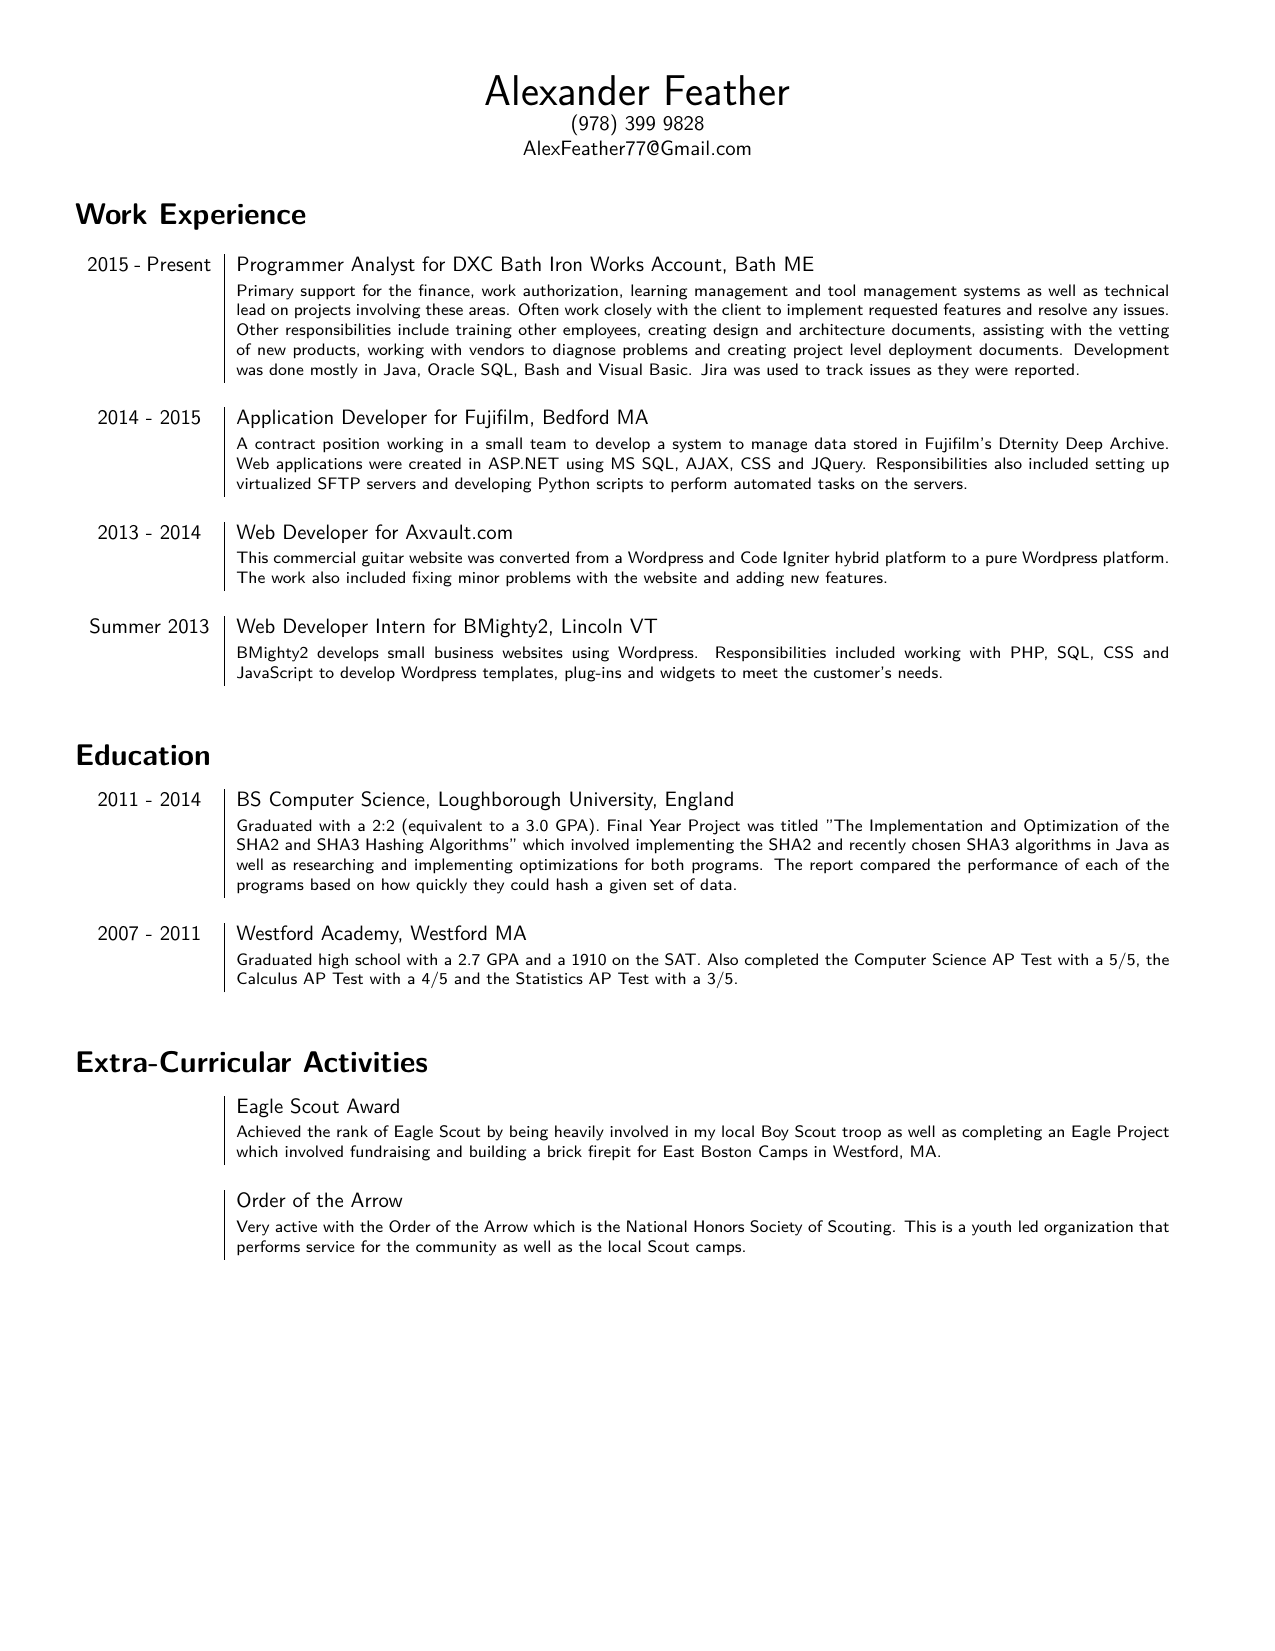
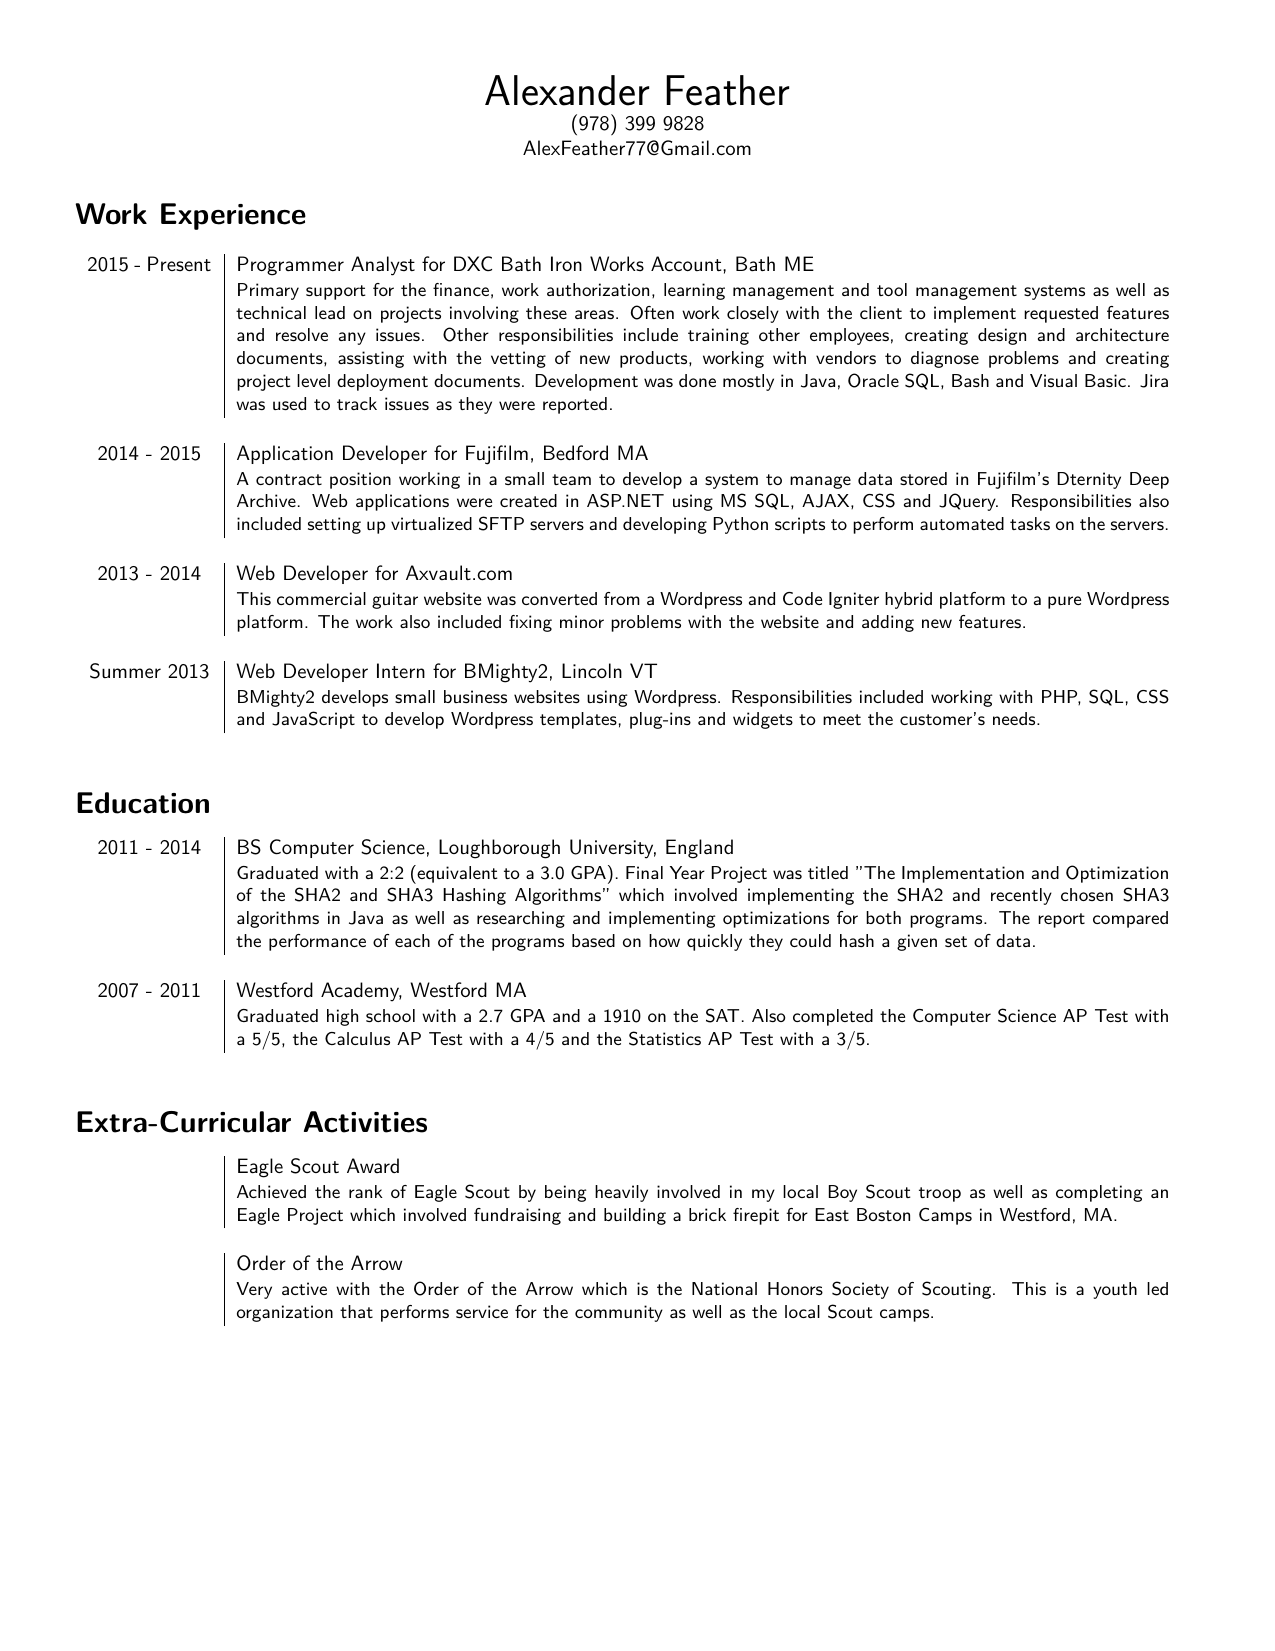
Updated Resume Files

diff --git a/Resume.tex b/Resume.tex
@@ -12,22 +12,22 @@
 
 \section*{\fontfamily{lmss}\selectfont Work Experience}
 \begin{tabular}{p{2.1cm}|p{15.8cm}}
-	2015 - Present & Programmer Analyst for DXC Bath Iron Works Account, Bath ME\\&\footnotesize{Primary support for the finance, work authorization, learning management and tool management systems as well as technical lead on projects involving these areas. Often work closely with the client to implement requested features and resolve any issues. Other responsibilities include training other employees, creating design and architecture documents, assisting with the vetting of new products, working with vendors to diagnose problems and creating project level deployment documents. Development was done mostly in Java, Oracle SQL, Bash and Visual Basic. Jira was used to track issues as they were reported.}\\\multicolumn{2}{c}{} \\
-	\centering 2014 - 2015 & Application Developer for Fujifilm, Bedford MA\\&\footnotesize{A contract position working in a small team to develop a system to manage data stored in Fujifilm's Dternity Deep Archive. Web applications were created in ASP.NET using MS SQL, AJAX, CSS and JQuery. Responsibilities also included setting up virtualized SFTP servers and developing Python scripts to perform automated tasks on the servers.}\\\multicolumn{2}{c}{} \\
-	\centering 2013 - 2014 & Web Developer for Axvault.com\\&\footnotesize{This commercial guitar website was converted from a Wordpress and Code Igniter hybrid platform to a pure Wordpress platform. The work also included fixing minor problems with the website and adding new features.}\\\multicolumn{2}{c}{} \\
-	\centering Summer 2013 & Web Developer Intern for BMighty2, Lincoln VT\\&\footnotesize{BMighty2 develops small business websites using Wordpress. Responsibilities included working with PHP, SQL, CSS and JavaScript to develop Wordpress templates, plug-ins and widgets to meet the customer's needs.}\\\multicolumn{2}{c}{} \\
+	2015 - Present & Programmer Analyst for DXC Bath Iron Works Account, Bath ME\\&\small{Primary support for the finance, work authorization, learning management and tool management systems as well as technical lead on projects involving these areas. Often work closely with the client to implement requested features and resolve any issues. Other responsibilities include training other employees, creating design and architecture documents, assisting with the vetting of new products, working with vendors to diagnose problems and creating project level deployment documents. Development was done mostly in Java, Oracle SQL, Bash and Visual Basic. Jira was used to track issues as they were reported.}\\\multicolumn{2}{c}{} \\
+	\centering 2014 - 2015 & Application Developer for Fujifilm, Bedford MA\\&\small{A contract position working in a small team to develop a system to manage data stored in Fujifilm's Dternity Deep Archive. Web applications were created in ASP.NET using MS SQL, AJAX, CSS and JQuery. Responsibilities also included setting up virtualized SFTP servers and developing Python scripts to perform automated tasks on the servers.}\\\multicolumn{2}{c}{} \\
+	\centering 2013 - 2014 & Web Developer for Axvault.com\\&\small{This commercial guitar website was converted from a Wordpress and Code Igniter hybrid platform to a pure Wordpress platform. The work also included fixing minor problems with the website and adding new features.}\\\multicolumn{2}{c}{} \\
+	\centering Summer 2013 & Web Developer Intern for BMighty2, Lincoln VT\\&\small{BMighty2 develops small business websites using Wordpress. Responsibilities included working with PHP, SQL, CSS and JavaScript to develop Wordpress templates, plug-ins and widgets to meet the customer's needs.}\\\multicolumn{2}{c}{} \\
 \end{tabular}
 
 \section*{\fontfamily{lmss}\selectfont Education}
 \begin{tabular}{p{2.1cm}|p{15.8cm}}
-	\centering 2011 - 2014 & BS Computer Science, Loughborough University, England\\&\footnotesize{Graduated with a 2:2 (equivalent to a 3.0 GPA). Final Year Project was titled "The Implementation and Optimization of the SHA2 and SHA3 Hashing Algorithms" which involved implementing the SHA2 and recently chosen SHA3 algorithms in Java as well as researching and implementing optimizations for both programs. The report compared the performance of each of the programs based on how quickly they could hash a given set of data.}\\\multicolumn{2}{c}{} \\
-	\centering 2007 - 2011 & Westford Academy, Westford MA\\&\footnotesize{Graduated high school with a 2.7 GPA and a 1910 on the SAT. Also completed the Computer Science AP Test with a 5/5, the Calculus AP Test with a 4/5 and the Statistics AP Test with a 3/5.}\\\multicolumn{2}{c}{} \\
+	\centering 2011 - 2014 & BS Computer Science, Loughborough University, England\\&\small{Graduated with a 2:2 (equivalent to a 3.0 GPA). Final Year Project was titled "The Implementation and Optimization of the SHA2 and SHA3 Hashing Algorithms" which involved implementing the SHA2 and recently chosen SHA3 algorithms in Java as well as researching and implementing optimizations for both programs. The report compared the performance of each of the programs based on how quickly they could hash a given set of data.}\\\multicolumn{2}{c}{} \\
+	\centering 2007 - 2011 & Westford Academy, Westford MA\\&\small{Graduated high school with a 2.7 GPA and a 1910 on the SAT. Also completed the Computer Science AP Test with a 5/5, the Calculus AP Test with a 4/5 and the Statistics AP Test with a 3/5.}\\\multicolumn{2}{c}{} \\
 \end{tabular}
 
 \section*{\fontfamily{lmss}\selectfont Extra-Curricular Activities}
 \begin{tabular}{p{2.1cm}|p{15.8cm}}
-	& Eagle Scout Award\\&\footnotesize{Achieved the rank of Eagle Scout by being heavily involved in my local Boy Scout troop as well as completing an Eagle Project which involved fundraising and building a brick firepit for East Boston Camps in Westford, MA.}\\\multicolumn{2}{c}{} \\
-	& Order of the Arrow\\&\footnotesize{Very active with the Order of the Arrow which is the National Honors Society of Scouting. This is a youth led organization that performs service for the community as well as the local Scout camps.}\\\multicolumn{2}{c}{} \\
+	& Eagle Scout Award\\&\small{Achieved the rank of Eagle Scout by being heavily involved in my local Boy Scout troop as well as completing an Eagle Project which involved fundraising and building a brick firepit for East Boston Camps in Westford, MA.}\\\multicolumn{2}{c}{} \\
+	& Order of the Arrow\\&\small{Very active with the Order of the Arrow which is the National Honors Society of Scouting. This is a youth led organization that performs service for the community as well as the local Scout camps.}\\\multicolumn{2}{c}{} \\
 \end{tabular}
 
 
